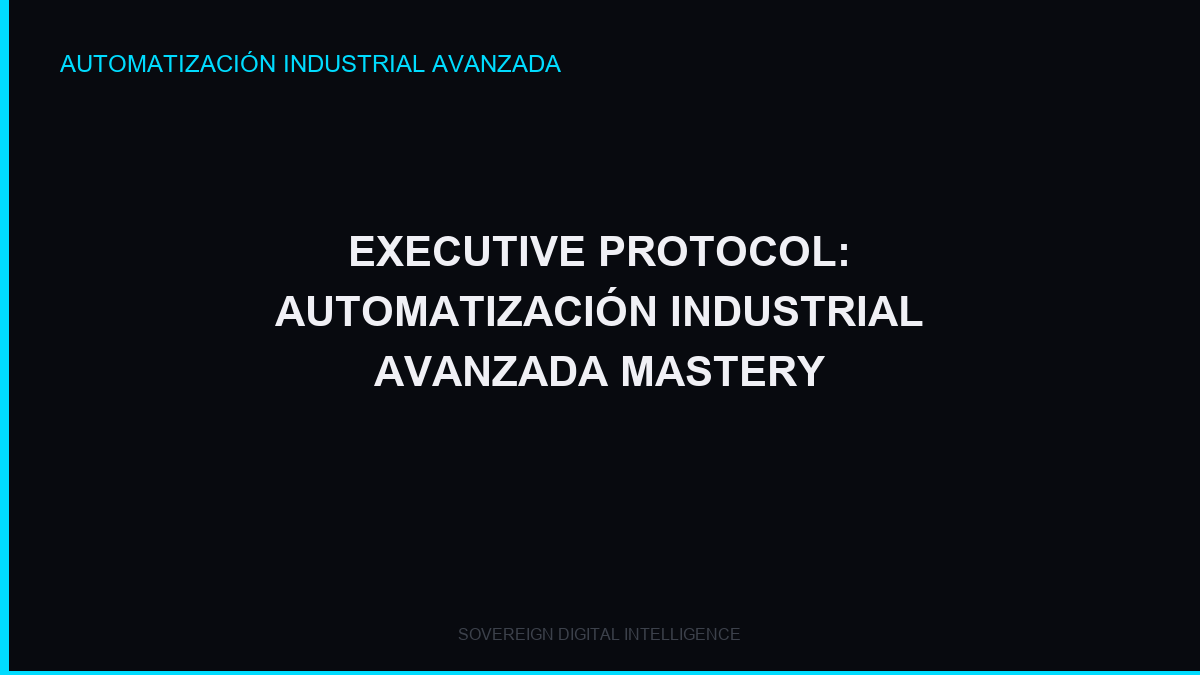
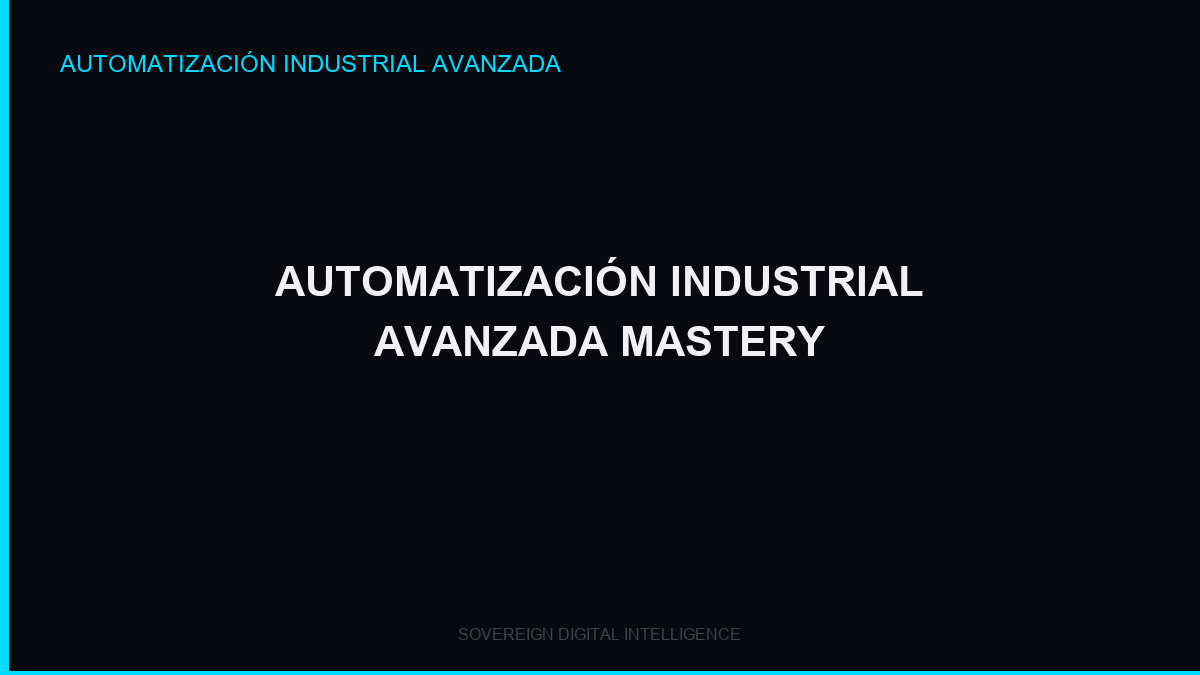
Industrial Update: 2026-04-30T17:05:03.860442

Changed region(s): [[0.2158, 0.3422, 0.7708, 0.5911]]

diff --git a/posts/asset_1777582397_408.html b/posts/asset_1777582397_408.html
@@ -1,5 +1,5 @@
 <!DOCTYPE html><html lang="es"><head><meta charset="UTF-8"><meta name="viewport" content="width=device-width,initial-scale=1.0">
-<title>Executive Protocol: Automatización Industrial Avanzada Mastery | Sovereign Digital</title>
+<title>Automatización Industrial Avanzada Mastery | Sovereign Digital</title>
 <link href="https://fonts.googleapis.com/css2?family=Inter:wght@400;600;900&display=swap" rel="stylesheet">
 <style>
 :root { --bg:#080a0f; --surface:#0f1118; --accent:#00dcff; --text:#e2e8f0; --dim:#7a8599; --border:rgba(255,255,255,0.06); }
@@ -47,11 +47,11 @@ footer{text-align:center;padding:4rem 2rem;border-top:1px solid var(--border);co
 <div class="post-wrap">
   <div class="post-head">
     <div class="tag">AUTOMATIZACIÓN INDUSTRIAL AVANZADA</div>
-    <h1>Executive Protocol: Automatización Industrial Avanzada Mastery</h1>
+    <h1>Automatización Industrial Avanzada Mastery</h1>
     <div class="price" style="color:var(--accent);font-size:1.8rem">$49.99</div>
   </div>
-  <img src="../assets/covers/asset_1777582397_408.png" class="post-cover" alt="Executive Protocol: Automatización Industrial Avanzada Mastery" onerror="this.style.display='none'">
-  <div class="post-body"><h1>Executive Protocol: Automatización Industrial Avanzada Mastery</h1>
+  <img src="../assets/covers/asset_1777582397_408.png" class="post-cover" alt="Automatización Industrial Avanzada Mastery" onerror="this.style.display='none'">
+  <div class="post-body"><h1>Automatización Industrial Avanzada Mastery</h1>
 <p><strong>Sovereign Industrial Protocol</strong> | Nivel: Elite</p>
 <hr />
 <h2>Analisis Estrategico: Automatización Industrial Avanzada</h2>
@@ -65,7 +65,7 @@ footer{text-align:center;padding:4rem 2rem;border-top:1px solid var(--border);co
 </ul>
 <p><em>Producido por MININA Industrial AI.</em></p></div>
   <div class="cta">
-    <h2>Adquirir: Executive Protocol: Automatización Industrial Avanzada Mastery</h2>
+    <h2>Adquirir: Automatización Industrial Avanzada Mastery</h2>
     <div style="color:var(--dim); margin-bottom: 1.5rem; text-align: left; max-width: 600px; margin-left: auto; margin-right: auto; line-height: 1.6;">
         <p style="margin-bottom: 0.8rem;"><strong>Resumen de tu Adquisición:</strong></p>
         <ul style="list-style-type: none; padding: 0;">
@@ -75,7 +75,7 @@ footer{text-align:center;padding:4rem 2rem;border-top:1px solid var(--border);co
             <li>✅ <strong>Soporte Soberano:</strong> Acceso a actualizaciones críticas de infraestructura.</li>
         </ul>
     </div>
-    <a href="https://checkout.minina.com/pay/asset_1777582397_408" class="btn">ORDENAR AHORA - $49.99</a>
+    <a href="#" class="btn">ORDENAR AHORA - $49.99</a>
   </div>
 </div>
 <footer><a href="../index.html" style="color:var(--accent);text-decoration:none;font-weight:800">&#8592; VOLVER</a><p style="margin-top:1rem">&copy; 2026 Sovereign Digital Intelligence</p></footer>

diff --git a/posts/asset_1777582541_130.html b/posts/asset_1777582541_130.html
@@ -1,5 +1,5 @@
 <!DOCTYPE html><html lang="es"><head><meta charset="UTF-8"><meta name="viewport" content="width=device-width,initial-scale=1.0">
-<title>Executive Protocol: Automatización Industrial Avanzada Industrial Core | Sovereign Digital</title>
+<title>Automatización Industrial Avanzada Industrial Core | Sovereign Digital</title>
 <link href="https://fonts.googleapis.com/css2?family=Inter:wght@400;600;900&display=swap" rel="stylesheet">
 <style>
 :root { --bg:#080a0f; --surface:#0f1118; --accent:#00dcff; --text:#e2e8f0; --dim:#7a8599; --border:rgba(255,255,255,0.06); }
@@ -47,11 +47,11 @@ footer{text-align:center;padding:4rem 2rem;border-top:1px solid var(--border);co
 <div class="post-wrap">
   <div class="post-head">
     <div class="tag">AUTOMATIZACIÓN INDUSTRIAL AVANZADA</div>
-    <h1>Executive Protocol: Automatización Industrial Avanzada Industrial Core</h1>
+    <h1>Automatización Industrial Avanzada Industrial Core</h1>
     <div class="price" style="color:var(--accent);font-size:1.8rem">$49.99</div>
   </div>
-  <img src="../assets/covers/asset_1777582541_130.png" class="post-cover" alt="Executive Protocol: Automatización Industrial Avanzada Industrial Core" onerror="this.style.display='none'">
-  <div class="post-body"><h1>Executive Protocol: Automatización Industrial Avanzada Industrial Core</h1>
+  <img src="../assets/covers/asset_1777582541_130.png" class="post-cover" alt="Automatización Industrial Avanzada Industrial Core" onerror="this.style.display='none'">
+  <div class="post-body"><h1>Automatización Industrial Avanzada Industrial Core</h1>
 <p><strong>Sovereign Industrial Protocol</strong> | Nivel: Elite</p>
 <hr />
 <h2>Analisis Estrategico: Automatización Industrial Avanzada</h2>
@@ -65,7 +65,7 @@ footer{text-align:center;padding:4rem 2rem;border-top:1px solid var(--border);co
 </ul>
 <p><em>Producido por MININA Industrial AI.</em></p></div>
   <div class="cta">
-    <h2>Adquirir: Executive Protocol: Automatización Industrial Avanzada Industrial Core</h2>
+    <h2>Adquirir: Automatización Industrial Avanzada Industrial Core</h2>
     <div style="color:var(--dim); margin-bottom: 1.5rem; text-align: left; max-width: 600px; margin-left: auto; margin-right: auto; line-height: 1.6;">
         <p style="margin-bottom: 0.8rem;"><strong>Resumen de tu Adquisición:</strong></p>
         <ul style="list-style-type: none; padding: 0;">
@@ -75,7 +75,7 @@ footer{text-align:center;padding:4rem 2rem;border-top:1px solid var(--border);co
             <li>✅ <strong>Soporte Soberano:</strong> Acceso a actualizaciones críticas de infraestructura.</li>
         </ul>
     </div>
-    <a href="https://checkout.minina.com/pay/asset_1777582541_130" class="btn">ORDENAR AHORA - $49.99</a>
+    <a href="#" class="btn">ORDENAR AHORA - $49.99</a>
   </div>
 </div>
 <footer><a href="../index.html" style="color:var(--accent);text-decoration:none;font-weight:800">&#8592; VOLVER</a><p style="margin-top:1rem">&copy; 2026 Sovereign Digital Intelligence</p></footer>